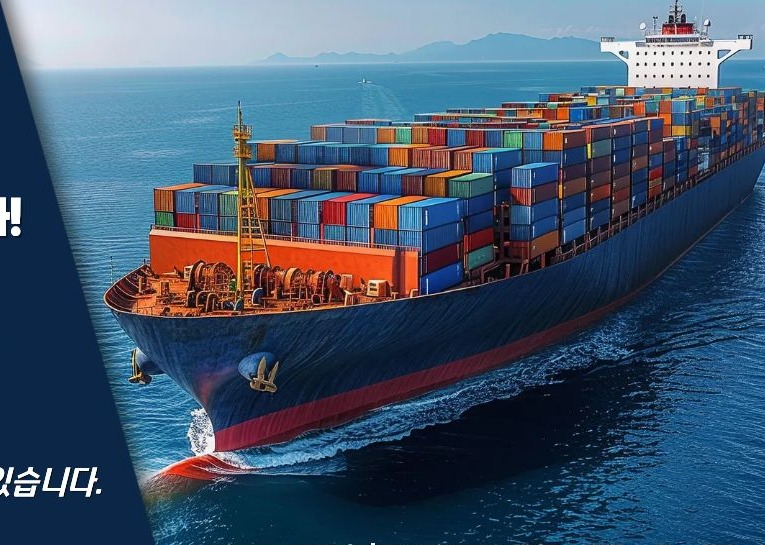
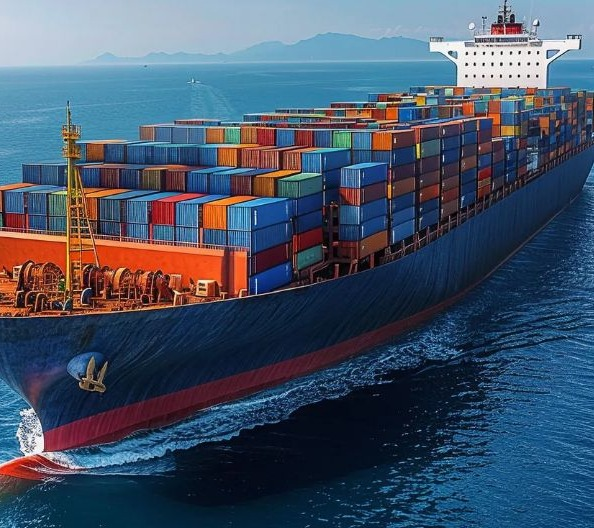
Add files via upload

diff --git a/index.html b/index.html
@@ -61,6 +61,13 @@ button,input,select,textarea{font:inherit;color:inherit}
 .hero .wave .w3{animation:drift 8s linear infinite}
 @keyframes drift{from{transform:translateX(0)}to{transform:translateX(-50%)}}
 @media (prefers-reduced-motion:reduce){.hero .wave svg{animation:none}}
+/* 히어로 아래 물결 띠 (예전 3겹 물결 그대로, 바다 텍스처 위에) */
+.waveband{--u:min(1px,calc(100vw / 680));position:relative;height:calc(150*var(--u));background:url(assets/hero_seafill.jpg) center/cover;overflow:hidden}
+.waveband svg{position:absolute;left:0;bottom:0;width:200%;height:100%;display:block;will-change:transform}
+.waveband .w1{animation:drift 16s linear infinite}
+.waveband .w2{animation:drift 11s linear infinite reverse}
+.waveband .w3{animation:drift 8s linear infinite}
+@media (prefers-reduced-motion:reduce){.waveband svg{animation:none}}
 
 /* ---------- 문의 ---------- */
 .ask{padding:30px 24px 20px;text-align:center}
@@ -89,25 +96,24 @@ button,input,select,textarea{font:inherit;color:inherit}
 .pcard h3 .or-y{color:#E0A800}
 .pdesc{text-align:center;font-family:var(--thin);font-size:18px;line-height:1.55;padding:22px 0 26px;color:#fff}
 
-/* ---------- 해결 (카드 2번을 그대로: 1080px 카드 실측을 680px로 환산, --u로 비례 축소) ---------- */
-.solve2{--u:min(1px,calc(100vw / 680));background:var(--navy);color:#fff;position:relative}
-.solve2 .rowa{position:relative;height:calc(372*var(--u));overflow:hidden}
-.solve2 .rowa .ship{position:absolute;left:calc(198*var(--u));top:0;width:calc(482*var(--u));height:calc(343*var(--u));object-fit:cover;clip-path:polygon(0 0,100% 0,100% 100%,21.7% 100%)}
-.solve2 .rowa .txt{position:absolute;left:calc(26*var(--u));top:calc(52*var(--u));width:calc(300*var(--u))}
-.solve2 h2{font-family:var(--bold);font-size:calc(27*var(--u));line-height:1.35;color:#fff;margin:0;font-weight:400}
-.solve2 .tag{display:inline-block;background:var(--sky-hl);color:var(--navy);font-family:var(--bold);font-size:calc(19*var(--u));padding:calc(3*var(--u)) calc(8*var(--u));margin-top:calc(26*var(--u))}
-.solve2 .q{font-family:var(--thin);font-style:italic;font-size:calc(19*var(--u));line-height:1.5;color:#fff;margin-top:calc(14*var(--u))}
-.solve2 .dest{position:absolute;right:calc(20*var(--u));bottom:calc(10*var(--u));margin:0;font-family:var(--bold);font-size:calc(15*var(--u));color:#fff}
-.solve2 .rowb{position:relative;height:calc(309*var(--u));overflow:hidden}
-.solve2 .rowb .lot{position:absolute;left:0;top:0;width:calc(460*var(--u));height:calc(309*var(--u));object-fit:cover;clip-path:polygon(0 0,100% 0,67% 100%,0 100%)}
-.solve2 .rowb .txt{position:absolute;right:calc(20*var(--u));top:calc(70*var(--u));width:calc(230*var(--u));text-align:center}
-.solve2 .rowb .tag{margin-top:0;font-size:calc(21*var(--u));padding:calc(4*var(--u)) calc(12*var(--u))}
-.solve2 .rowb .q{margin-top:calc(30*var(--u));font-size:calc(18*var(--u))}
+/* ---------- 해결 ---------- */
+.solve{padding:56px 24px 8px;text-align:center}
+.solve h2{font-family:var(--bold);font-size:48px;line-height:1.1;color:var(--navy);margin:0}
+/* 수출 / 국내 중고차 매매 소개 블록 */
+.svc{padding:34px 24px 44px;text-align:center}
+.svc .tagpill{display:inline-block;background:var(--sky-hl);color:var(--navy);font-family:var(--bold);font-size:28px;line-height:1;padding:10px 26px}
+.svc .photo{margin:22px -24px 0}
+.svc .photo img{width:100%;height:380px;object-fit:cover;display:block}
+.svc .q{font-family:var(--thin);font-size:24px;line-height:1.45;color:var(--navy);margin-top:24px}
+.svc .q b{font-family:var(--bold);font-weight:400;font-size:28px;display:inline-block;margin-top:6px}
+.svc .dest{font-family:var(--thin);font-size:20px;color:var(--navy);margin-top:16px}
+.svc .dest b{font-family:var(--bold);font-weight:400;background:var(--sun);padding:2px 10px}
+.svc+.doubt{padding-top:calc(20*var(--u))}
 
 /* ---------- 약속 ---------- */
 /* 카드(794px) 실측값을 680px 기준으로 환산, 화면이 좁아지면 카드처럼 통째로 비례 축소 */
-.promises{--u:min(1px,calc(100vw / 680))}
-.promises{padding:calc(30*var(--u)) 24px calc(40*var(--u));text-align:center}
+.promises,.doubt{--u:min(1px,calc(100vw / 680))}
+.promises{padding:calc(40*var(--u)) 24px calc(40*var(--u));text-align:center;border-top:1px solid #E3E7EE}
 .pill{display:inline-block;background:var(--navy);color:#fff;font-family:var(--bold);font-size:26px;padding:6px 30px;border-radius:14px}
 .promises .pill{font-size:calc(38*var(--u));line-height:1.15;padding:calc(12*var(--u)) calc(38*var(--u));border-radius:calc(18*var(--u))}
 .qitem{padding:calc(24*var(--u)) 0 calc(36*var(--u));display:flex;flex-direction:column;align-items:center}
@@ -116,22 +122,31 @@ button,input,select,textarea{font:inherit;color:inherit}
 .qitem h3{font-family:var(--bold);font-size:calc(32*var(--u));line-height:1.45;color:var(--navy);margin:calc(24*var(--u)) 0 0}
 .qitem p{font-family:var(--thin);font-size:calc(24*var(--u));line-height:1.5;color:var(--ink);margin-top:calc(20*var(--u))}
 
-/* ---------- 국내 중고차 매매 (카드 3번 실측 → 680px 환산, --u 비례 축소) ---------- */
-.domestic{--u:min(1px,calc(100vw / 680));padding:calc(24*var(--u)) 0 calc(36*var(--u));text-align:center;background:#fff}
-.domestic .dpill{display:inline-block;background:var(--navy);color:#fff;font-family:var(--thin);font-size:calc(21*var(--u));line-height:1;padding:calc(11*var(--u)) calc(46*var(--u));border-radius:999px;box-shadow:0 4px 0 rgba(0,0,0,.15)}
-.domestic .big{font-family:var(--bold);font-size:calc(32*var(--u));color:var(--navy);line-height:1;margin-top:calc(22*var(--u))}
-.domestic h3{font-family:var(--bold);font-size:calc(19.5*var(--u));color:var(--navy);line-height:1.5;margin:calc(4*var(--u)) 0 0;white-space:nowrap}
-.domestic h3 .hl-yb{padding:calc(2*var(--u)) calc(6*var(--u))}
-.domestic .band{background:var(--navy);color:#fff;font-family:var(--thin);font-size:calc(19*var(--u));line-height:1;padding:calc(9*var(--u)) 0;margin-top:calc(16*var(--u))}
-.domestic .pair{display:flex;align-items:center;justify-content:center;gap:calc(14*var(--u));padding:calc(4*var(--u)) calc(28*var(--u)) 0}
-.domestic .gbox{flex:0 0 calc(268*var(--u));background:#EEEEEE;padding-bottom:calc(6*var(--u))}
-.domestic .gbox img{width:100%;height:calc(153*var(--u));object-fit:cover;display:block}
-.domestic .gbox p,.domestic .ibox p{font-family:var(--bold);font-size:calc(16*var(--u));color:var(--navy);margin:calc(6*var(--u)) 0 0;white-space:nowrap}
-.domestic .gbox p .hl-b,.domestic .ibox p .hl-b{padding:0 calc(4*var(--u))}
-.domestic .arrow{flex:0 0 calc(48*var(--u));height:calc(46*var(--u));background:var(--navy);clip-path:polygon(0 30%,55% 30%,55% 0,100% 50%,55% 100%,55% 70%,0 70%)}
-.domestic .pair.icons{padding-top:calc(22*var(--u));align-items:flex-start}
-.domestic .ibox{flex:0 0 calc(268*var(--u))}
-.domestic .ibox img{height:calc(96*var(--u));width:auto;margin:0 auto calc(20*var(--u))}
+/* ---------- 설마 (파손차) ---------- */
+.doubt{padding:calc(70*var(--u)) 24px 0;text-align:center}
+.doubt .big{font-family:var(--bold);font-size:calc(50*var(--u));color:var(--navy);line-height:1;margin-bottom:calc(10*var(--u))}
+.doubt h3{font-family:var(--bold);font-size:calc(31*var(--u));color:var(--navy);line-height:1.07;margin:0;white-space:nowrap}
+.doubt h3 .hl-yb{font-size:calc(27*var(--u));padding:calc(3*var(--u)) calc(8*var(--u));display:inline-block;margin-top:calc(5*var(--u))}
+.doubt img{width:calc(400*var(--u));margin:calc(33*var(--u)) auto 0}
+.doubt .ok{display:inline-block;background:var(--navy);color:#fff;font-family:var(--thin);font-size:calc(21*var(--u));line-height:1;padding:calc(6*var(--u)) calc(20*var(--u));border-radius:999px;margin-top:calc(19*var(--u));box-shadow:0 4px 0 rgba(0,0,0,.15)}
+.doubt-band{background:var(--navy);color:#fff;text-align:center;padding:40px 24px 44px;margin-top:22px;font-family:var(--thin);font-size:20px;line-height:1.45}
+.doubt-band .gap{height:22px}
+/* ---------- 국내 중고차 매매 (카드 3번, 사이트 크기에 맞춰 키움, --u 비례 축소) ---------- */
+.domestic{--u:min(1px,calc(100vw / 680));padding:calc(40*var(--u)) 0 calc(50*var(--u));text-align:center;background:#fff;border-top:1px solid #E3E7EE}
+.domestic .dpill{display:inline-block;background:var(--navy);color:#fff;font-family:var(--thin);font-size:calc(26*var(--u));line-height:1;padding:calc(12*var(--u)) calc(50*var(--u));border-radius:999px;box-shadow:0 4px 0 rgba(0,0,0,.15)}
+.domestic .big{font-family:var(--bold);font-size:calc(46*var(--u));color:var(--navy);line-height:1;margin-top:0}
+.domestic h3{font-family:var(--bold);font-size:calc(26*var(--u));color:var(--navy);line-height:1.5;margin:calc(8*var(--u)) 0 0;white-space:nowrap}
+.domestic h3 .hl-yb{padding:calc(2*var(--u)) calc(8*var(--u))}
+.domestic .band{background:var(--navy);color:#fff;font-family:var(--thin);font-size:calc(24*var(--u));line-height:1;padding:calc(13*var(--u)) 0;margin-top:calc(28*var(--u))}
+.domestic .pair{display:flex;align-items:center;justify-content:center;gap:calc(12*var(--u));padding:calc(18*var(--u)) calc(14*var(--u)) 0}
+.domestic .gbox{flex:0 0 calc(290*var(--u));background:#EEEEEE;padding-bottom:calc(10*var(--u))}
+.domestic .gbox img{width:100%;height:calc(176*var(--u));object-fit:cover;display:block}
+.domestic .gbox p,.domestic .ibox p{font-family:var(--bold);font-size:calc(19*var(--u));color:var(--navy);margin:calc(12*var(--u)) 0 0;white-space:nowrap}
+.domestic .gbox p .hl-b,.domestic .ibox p .hl-b{padding:0 calc(5*var(--u))}
+.domestic .arrow{flex:0 0 calc(50*var(--u));height:calc(50*var(--u));background:var(--navy);clip-path:polygon(0 30%,55% 30%,55% 0,100% 50%,55% 100%,55% 70%,0 70%)}
+.domestic .pair.icons{padding-top:calc(30*var(--u));align-items:flex-start}
+.domestic .ibox{flex:0 0 calc(290*var(--u))}
+.domestic .ibox img{height:calc(130*var(--u));width:auto;margin:0 auto calc(26*var(--u))}
 .domestic .ibox p{margin-top:0}
 
 /* ---------- 3단계 ---------- */
@@ -340,6 +355,8 @@ footer .copy{margin-top:22px;font-size:12px;color:#9AA3B2}
   .ask .btns{gap:10px}.ask .btn{width:46%;font-size:17px;height:50px}
   .ask .info{font-size:15px}
   .cars h2{font-size:40px}.cars h3{font-size:19px}
+  .solve{padding-top:40px}.solve h2{font-size:34px}
+  .svc .tagpill{font-size:21px;padding:8px 18px}.svc .photo img{height:230px}.svc .q{font-size:18px}.svc .q b{font-size:21px}.svc .dest{font-size:15px}
   .pcard img{height:180px}.pcard h3{font-size:22px}
   .steps .pill{font-size:24px;padding:8px 30px}
   .step{grid-template-columns:120px 1fr;gap:10px}.step .no{left:38px}
@@ -374,6 +391,11 @@ footer .copy{margin-top:22px;font-size:12px;color:#9AA3B2}
   <img class="top" src="assets/hero_v4.jpg" alt="블루존오토 — 아직도 중고차 그냥 파십니까? NO, 이제는 '제값' 지키며 사고파는 시대 ON. 중고차 수출 • 폐차 수출 / 국내 중고차 시장 전문. 60만km, 파손 심한 문제차량은 수출 or 폐차수출! 자동차 진단평가사가 검증한 국내중고차 매매! 상담전화 1588-4525, 운영시간 10:00 AM ~ 22:00 PM. 비전문가의 감가폭탄 OUT · 중간수수료 OUT · 투명한 과정과 약속">
  </div>
 </section>
+<div class="waveband" aria-hidden="true">
+  <svg class="w1" viewBox="0 0 1360 230" preserveAspectRatio="none"><path d="M0,45 C170,5 170,85 340,45 C510,5 510,85 680,45 C850,5 850,85 1020,45 C1190,5 1190,85 1360,45 L1360,230 L0,230 Z" fill="#0B2647" opacity=".55"/></svg>
+  <svg class="w2" viewBox="0 0 1360 230" preserveAspectRatio="none"><path d="M0,95 C170,50 170,140 340,95 C510,50 510,140 680,95 C850,50 850,140 1020,95 C1190,50 1190,140 1360,95 L1360,230 L0,230 Z" fill="#0B2647"/></svg>
+  <svg class="w3" viewBox="0 0 1360 230" preserveAspectRatio="none"><path d="M0,165 C170,125 170,205 340,165 C510,125 510,205 680,165 C850,125 850,205 1020,165 C1190,125 1190,205 1360,165 L1360,230 L0,230 Z" fill="#ffffff"/></svg>
+</div>
 
 <!-- ================= 문의 ================= -->
 <section class="ask">
@@ -407,22 +429,53 @@ footer .copy{margin-top:22px;font-size:12px;color:#9AA3B2}
 </section>
 
 <!-- ================= 해결 ================= -->
-<section class="solve2" id="promise">
-  <div class="rowa">
-    <div class="txt">
-      <h2>이제는<br>블루존오토가<br>해결하겠습니다!</h2>
-      <span class="tag">수출 or 수출폐차</span>
-      <p class="q">60만km?<br>파손이 심한차량?<br>모두 제값을 받을 수 있습니다.</p>
-    </div>
-    <img class="ship" src="assets/ship_export.jpg" alt="컨테이너를 실은 수출 화물선">
-    <p class="dest">주요수출국: 러시아 / 몽골 / 중동 / 아프리카</p>
+<section class="solve" id="promise">
+  <h2>이제는 블루존오토가<br>해결하겠습니다!</h2>
+</section>
+
+<!-- ================= 수출 or 수출폐차 ================= -->
+<section class="svc">
+  <span class="tagpill">수출 or 수출폐차</span>
+  <div class="photo"><img src="assets/ship_export.jpg" alt="컨테이너를 실은 수출 화물선"></div>
+  <p class="q">60만km? 파손이 심한 차량?<br><b>모두 제값을 받을 수 있습니다.</b></p>
+  <p class="dest">주요수출국 : <b>러시아 / 몽골 / 중동 / 아프리카</b></p>
+</section>
+
+<!-- ================= 설마 (파손차) ================= -->
+<section class="doubt">
+  <div class="big">설마,</div>
+  <h3>내 차가 오래되고,<br>연식도 60만km라서?<br>너무 기스가 많고, 파손이 심한 문제차량이라서?<br><span class="hl-yb">판매가 될까 걱정되십니까?</span></h3>
+  <img src="assets/car_wrecked_hd.jpg" alt="">
+  <span class="ok">파손이 심한 차량도 OK</span>
+</section>
+<div class="doubt-band">
+  걱정은 이제 그만!<br><span class="y">이렇게 파손된 차량도,<br>그 어떤 차도 가능합니다!</span>
+  <div class="gap"></div>
+  <span class="y">수출 바이어는</span> 부품과 차대의 가치를,<br><span class="y">폐차는</span> 중량과 재활용의 가치를 봅니다.
+</div>
+
+<!-- ================= 국내 중고차 매매 ================= -->
+<section class="svc">
+  <span class="tagpill">국내 중고차 매매</span>
+  <div class="photo"><img src="assets/cars_lot.jpg" alt="전시된 국내 중고차들"></div>
+  <p class="q">자동차 진단평가사가 검증한<br>차량과 매매가격으로<br><b>이제는 안심할 수 있습니다.</b></p>
+</section>
+
+<!-- ================= 국내 중고차 매매 (카드 3번 그대로) ================= -->
+<section class="domestic">
+  <div class="big">설마,</div>
+  <h3>상태가 좋은 차량임에도<br>제값 받지 못하고 판매할까봐?<br>또는 이런저런 이유로 <span class="hl-yb">구매를 망설이고 있다면?</span></h3>
+  <div class="band">1) 차대차 교환(운행중인차 매입교환)</div>
+  <div class="pair">
+    <div class="gbox"><img src="assets/suv_old.jpg" alt="2018년식 모하비"><p><span class="hl-b">예시)</span> 2018년식 모하비 교환+추가금</p></div>
+    <span class="arrow"></span>
+    <div class="gbox"><img src="assets/suv_new.jpg" alt="2022년식 모하비"><p><span class="hl-b">예시)</span> 2022년식 모하비로 교환</p></div>
   </div>
-  <div class="rowb">
-    <img class="lot" src="assets/cars_lot.jpg" alt="전시된 국내 중고차들">
-    <div class="txt">
-      <span class="tag">국내 중고차 매매</span>
-      <p class="q">자동차 진단평가사가<br>검증한 차량과 매매가격으로<br>이제는 안심할 수 있습니다.</p>
-    </div>
+  <div class="band">2) 저신용 무조건 할부</div>
+  <div class="pair icons">
+    <div class="ibox"><img src="assets/icon_fraud.png" alt=""><p><span class="hl-b">예시)</span> 저신용자 대상 (파산은 불가능)</p></div>
+    <span class="arrow"></span>
+    <div class="ibox"><img src="assets/icon_receipt.png" alt=""><p><span class="hl-b">예시)</span> 상담 후 할부상담 가능</p></div>
   </div>
 </section>
 
@@ -445,25 +498,6 @@ footer .copy{margin-top:22px;font-size:12px;color:#9AA3B2}
     <img src="assets/handshake_promise.png" alt="">
     <h3>투명한 과정공개!<br><span class="hl-y">약속과 동일한 금액</span></h3>
     <p>거래과정을 실시간으로 공개!<br><span class="hl-b">약속과 동일한 금액</span>이 아닐시 전액환불!</p>
-  </div>
-</section>
-
-<!-- ================= 국내 중고차 매매 (카드 3번 그대로) ================= -->
-<section class="domestic">
-  <span class="dpill">국내 중고차 매매</span>
-  <div class="big">설마,</div>
-  <h3>상태가 좋은 차량임에도<br>제값 받지 못하고 판매할까봐?<br>또는 이런저런 이유로 <span class="hl-yb">구매를 망설이고 있다면?</span></h3>
-  <div class="band">1) 차대차 교환(운행중인차 매입교환)</div>
-  <div class="pair">
-    <div class="gbox"><img src="assets/suv_old.jpg" alt="2018년식 모하비"><p><span class="hl-b">예시)</span> 2018년식 모하비 교환+추가금</p></div>
-    <span class="arrow"></span>
-    <div class="gbox"><img src="assets/suv_new.jpg" alt="2022년식 모하비"><p><span class="hl-b">예시)</span> 2022년식 모하비로 교환</p></div>
-  </div>
-  <div class="band">2) 저신용 무조건 할부</div>
-  <div class="pair icons">
-    <div class="ibox"><img src="assets/icon_fraud.png" alt=""><p><span class="hl-b">예시)</span> 저신용자 대상 (파산은 불가능)</p></div>
-    <span class="arrow"></span>
-    <div class="ibox"><img src="assets/icon_receipt.png" alt=""><p><span class="hl-b">예시)</span> 상담 후 할부상담 가능</p></div>
   </div>
 </section>
 
